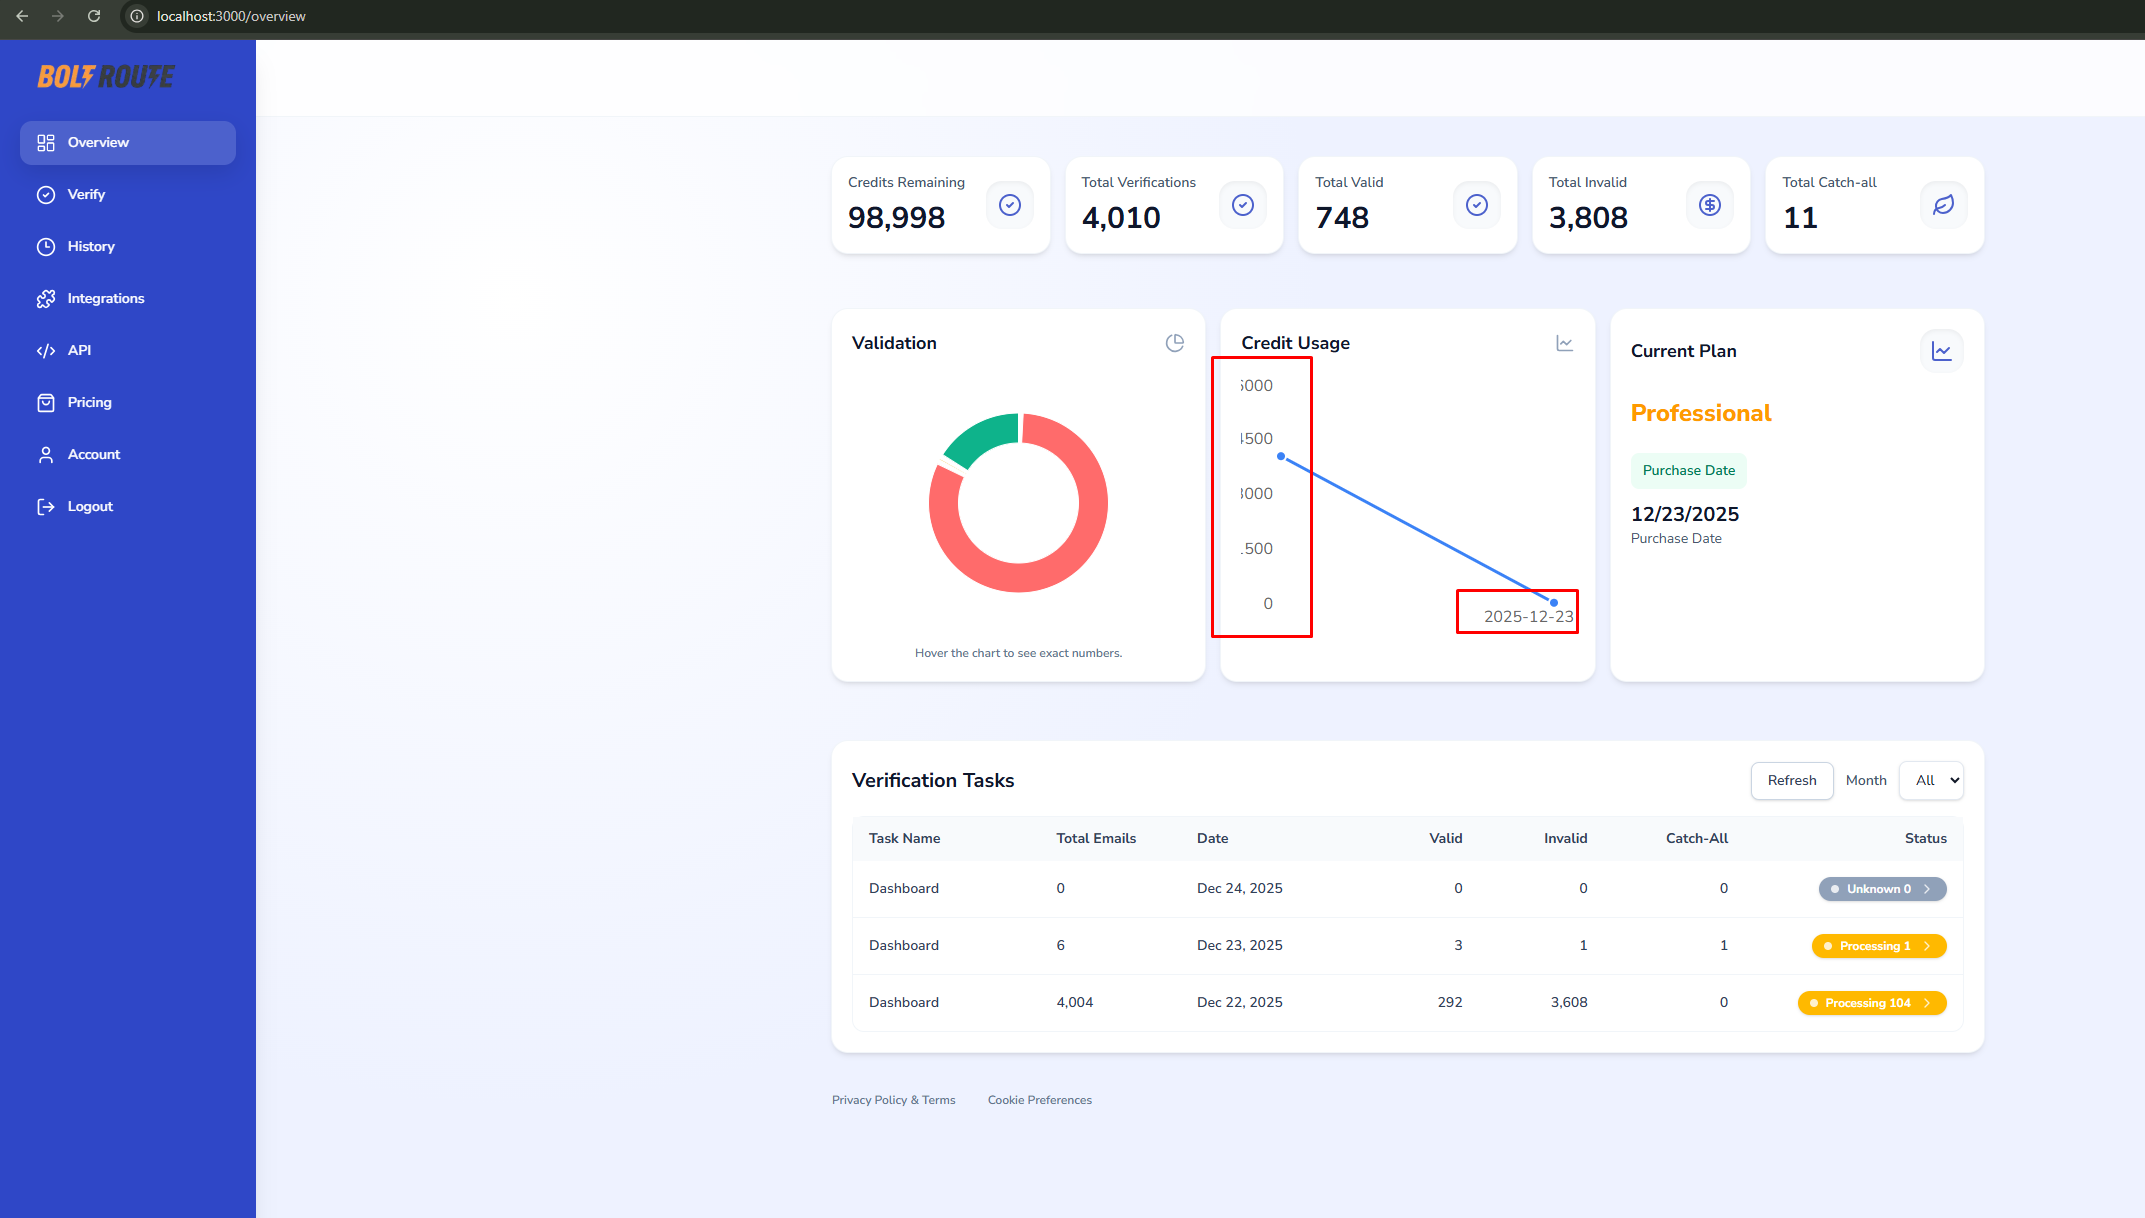
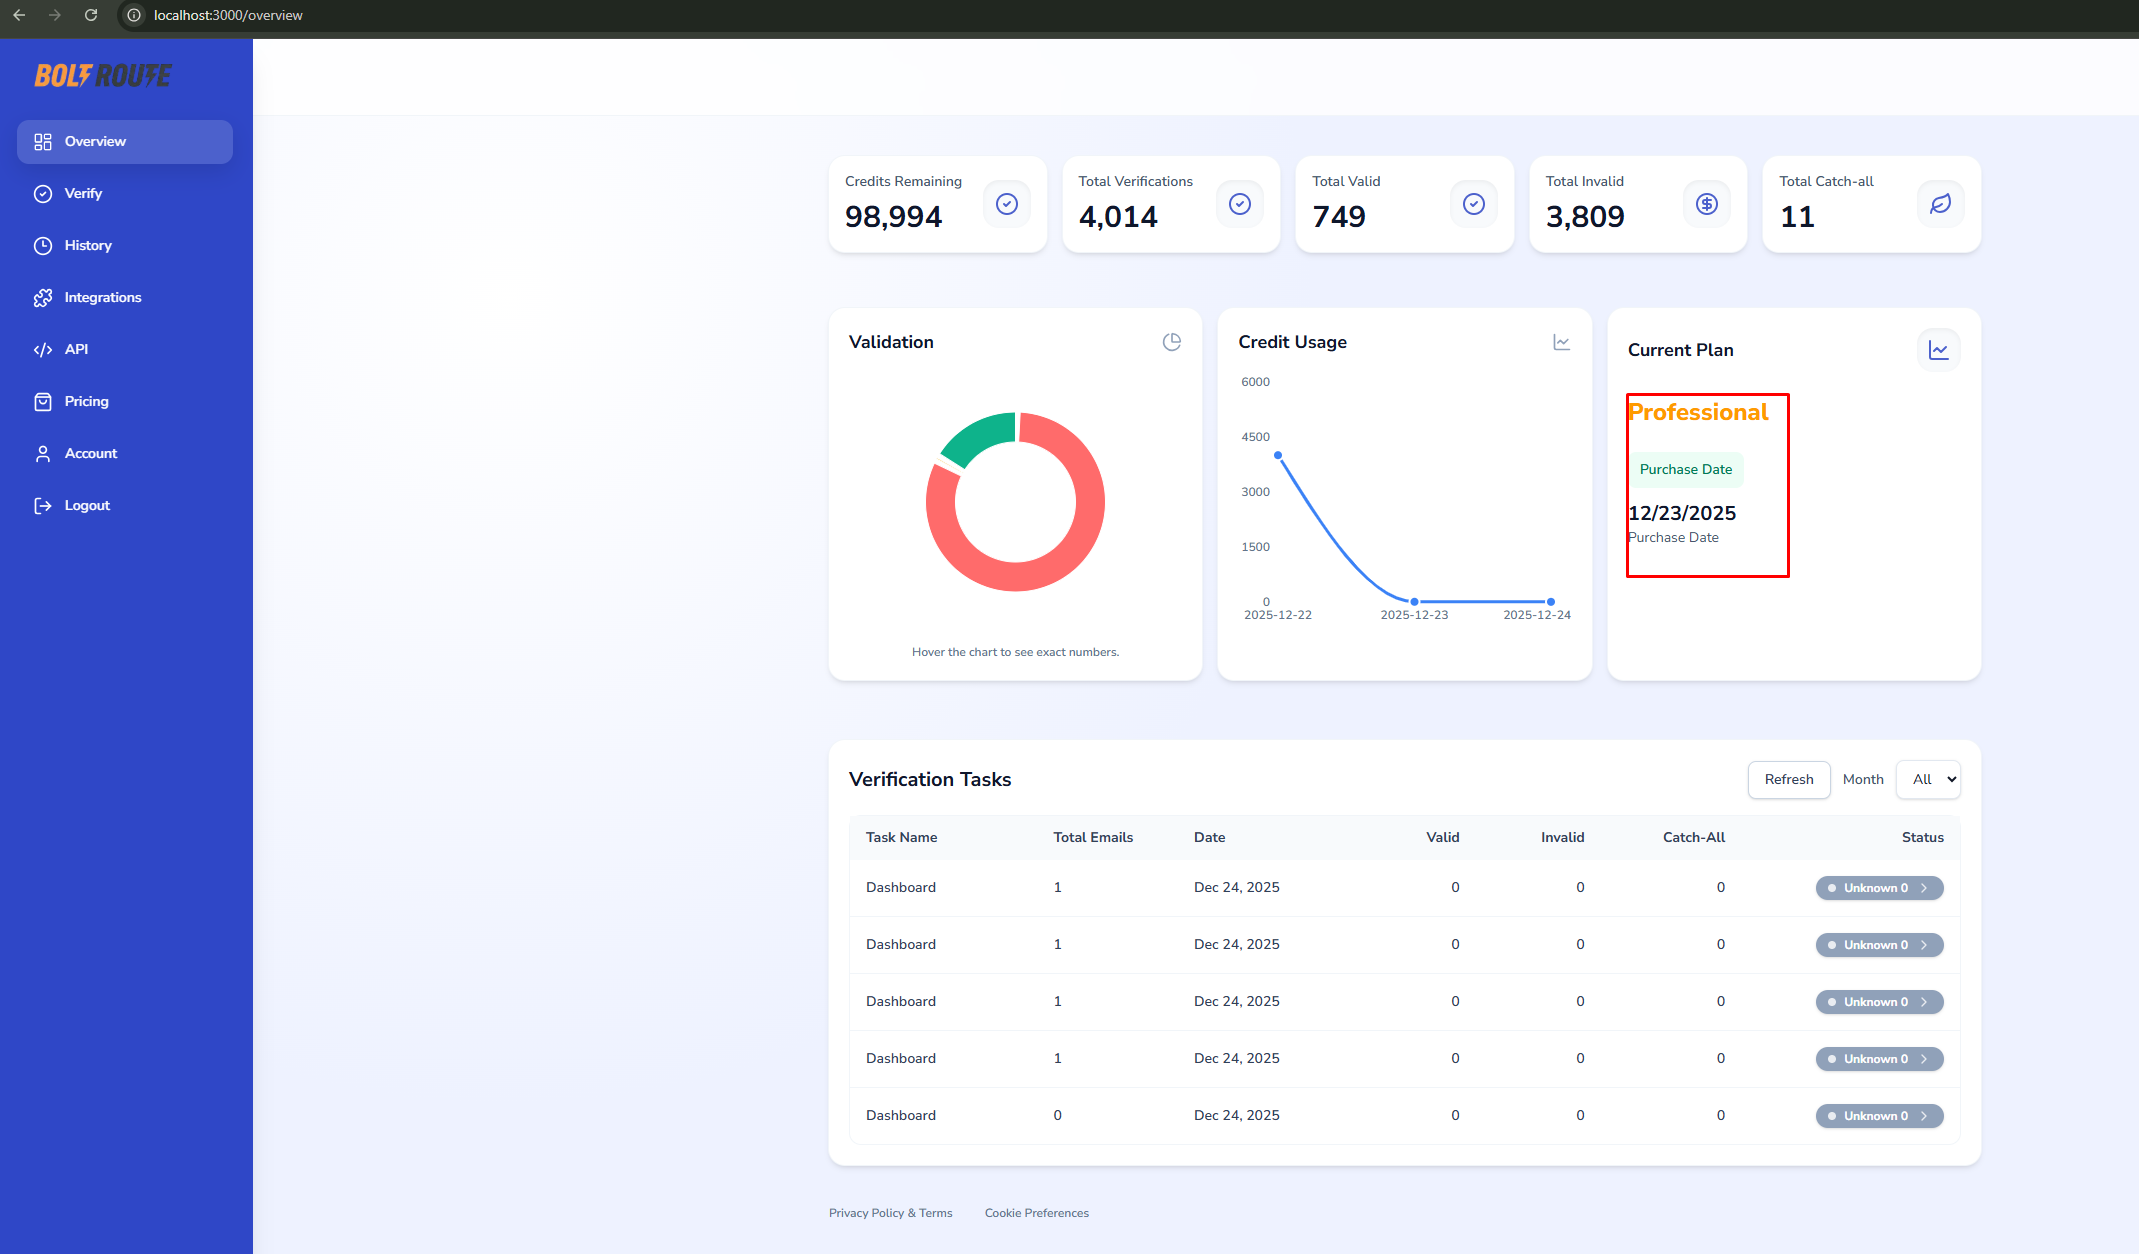
chore: sync workspace state

diff --git a/app/overview/page.tsx b/app/overview/page.tsx
@@ -341,27 +341,29 @@ export default function OverviewPage() {
               <LineIcon className="h-6 w-6" />
               </div>
             </div>
-            <div className="mt-6 text-2xl font-extrabold text-amber-500">{planName}</div>
-            <div className="mt-6 inline-flex items-center gap-2 rounded-lg bg-emerald-50 px-3 py-2 text-emerald-700">
-              <span className="text-sm font-semibold">Purchase Date</span>
-            </div>
-            <p className="mt-3 text-xl font-bold text-slate-900">{purchaseDate}</p>
-            <p className="text-sm text-slate-600">Purchase Date</p>
-            {currentPlan?.label === "Multiple items" && currentPlan.plan_names?.length ? (
-              <div className="mt-4 space-y-2 text-sm text-slate-600">
-                <p className="font-semibold text-slate-700">Items</p>
-                <div className="flex flex-wrap gap-2">
-                  {currentPlan.plan_names.map((name) => (
-                    <span
-                      key={name}
-                      className="rounded-full bg-slate-100 px-3 py-1 text-xs font-semibold text-slate-700"
-                    >
-                      {name}
-                    </span>
-                  ))}
-                </div>
+            <div className="mt-6 flex flex-col items-center text-center">
+              <div className="text-2xl font-extrabold text-amber-500">{planName}</div>
+              <div className="mt-6 inline-flex items-center gap-2 rounded-lg bg-emerald-50 px-3 py-2 text-emerald-700">
+                <span className="text-sm font-semibold">Purchase Date</span>
               </div>
-            ) : null}
+              <p className="mt-3 text-xl font-bold text-slate-900">{purchaseDate}</p>
+              <p className="text-sm text-slate-600">Purchase Date</p>
+              {currentPlan?.label === "Multiple items" && currentPlan.plan_names?.length ? (
+                <div className="mt-4 w-full space-y-2 text-sm text-slate-600">
+                  <p className="font-semibold text-slate-700">Items</p>
+                  <div className="flex flex-wrap justify-center gap-2">
+                    {currentPlan.plan_names.map((name) => (
+                      <span
+                        key={name}
+                        className="rounded-full bg-slate-100 px-3 py-1 text-xs font-semibold text-slate-700"
+                      >
+                        {name}
+                      </span>
+                    ))}
+                  </div>
+                </div>
+              ) : null}
+            </div>
           </div>
         </section>
 

diff --git a/AGENTS.md b/AGENTS.md
@@ -16,50 +16,6 @@
  -- If anything is not implemented, document it under the relevant task and warn me
  -- All to-do items,even if they are new and planned during runtime codex session,should be FIRST add them to planning/progress markdown files step by step
  -- AFTER completing a step, ask for my confirmation before starting the next task
-
-- GitHub Flow (USER MAY OVERRIDE THOS FLOW):
-	Local = your machine
-	Remote (origin) = GitHub
-
-	1.Start from production
-	git checkout main && git pull origin main
-
-	2.Create a temporary branch (local)
-	git checkout -b feat/x or fix/x
-
-	3.Push the branch (remote)
-	git push -u origin feat/x
-
-	4.Develop & test
-	All work runs from the checked-out branch
-	Commit and push as needed
-
-	5.Merge when ready
-	git checkout main && git pull && git merge feat/x && git push
-
-	6.Clean up
-	git branch -d feat/x
-	git push origin --delete feat/x
-	
-- Multi-session timing lock (GitHub workflow):
- -- Before editing any shared file (especially root *-plan.md), announce intent to lock it and wait for confirmation.
- -- Only one session may edit a shared file at a time.
- -- After finishing, commit + push, then announce unlock.
- -- Next session must git fetch + rebase/merge before touching the shared file.
- -- If a conflict appears, stop and ask for coordination.
- 
- -- For the file lock mechanism:
-
-	  Use a timing lock via chat (no tooling). The exact protocol:
-
-	  1. Lock request message:
-		 LOCK REQUEST: filename (branch fix/fix-name)
-	  2. Wait for my reply:
-		 LOCK GRANTED: filename
-	  3. Make the plan edit, commit + push.
-	  4. Unlock message after push:
-		 UNLOCK: filename
-	  5. Other session must git fetch + git rebase main before editing the file.
  
 PS1: Never forget rules from AGENTS.md.
 PS2: Push to GitHub BEFORE EVERY MAJOR CHANGE and AT THE BEGINNING OF OUR CONVERSATION.

diff --git a/overview-plan.md b/overview-plan.md
@@ -154,6 +154,10 @@ Goal: replace mock data on `/overview` with real per-user data sourced from our 
     - Apply explicit tick typography (font size, weight, color) for the Credit Usage chart axes to match the API page chart ticks and avoid overflow.
     - Update: Added a shared tick style for both Overview and API charts so axis labels use consistent size, weight, and color and no longer overflow.
 
+23) Overview: center Current Plan card content (NEW)
+    - Center the Current Plan card body (plan name, purchase date, and item chips) horizontally without changing the header layout.
+    - Update: Wrapped the Current Plan card body in a centered flex container and aligned the item chips with `justify-center`, keeping the header row untouched so only the content block shifts to horizontal center.
+
 Notes:
 - External task source remains the email verification API; Supabase caches per-user task metadata for aggregation/safety.
 - External API metrics endpoints (`/metrics/verifications`, `/metrics/api-usage`) return lifetime totals by default and range totals when `from`/`to` are provided; they do not return time series.
